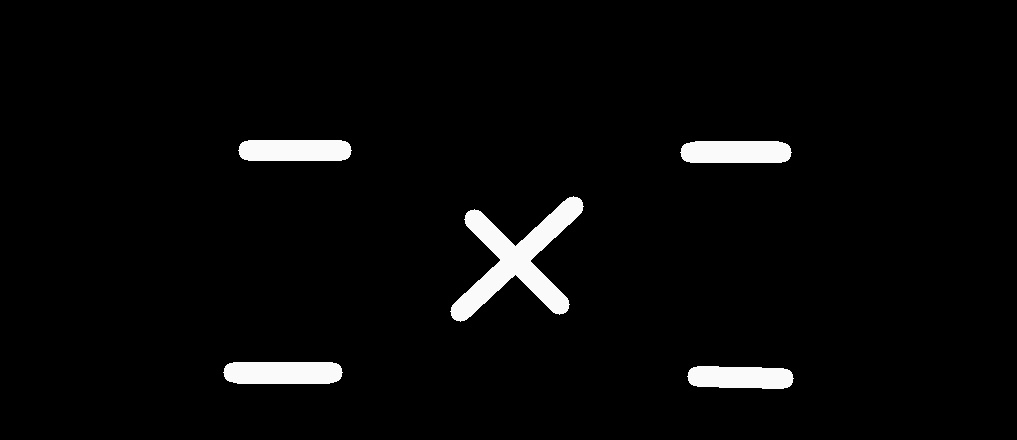
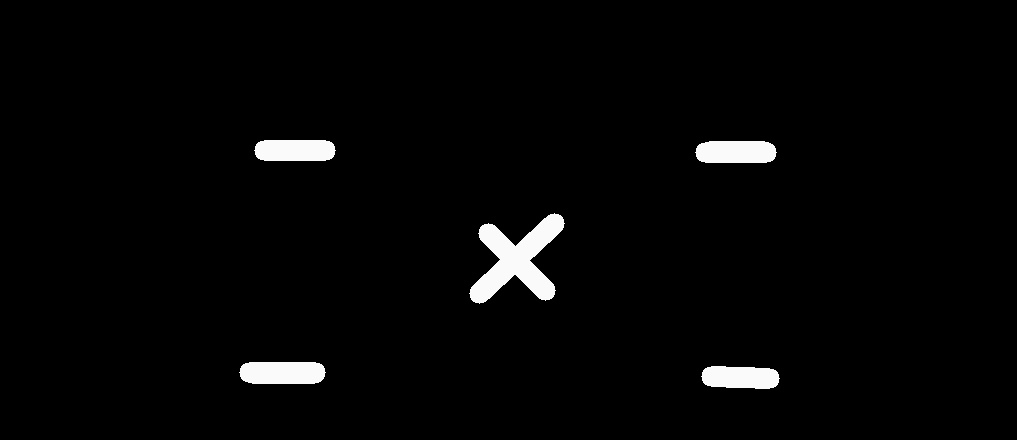
Yellow Back Color

diff --git a/Image Processing/HSV_Test/color.py b/Image Processing/HSV_Test/color.py
@@ -28,17 +28,17 @@ cv2.createTrackbar("U - V", "Trackbars", 255, 255, nothing)
 while True:
     
     # Start reading the webcam feed frame by frame.
-    ret, frame = cap.read()
+    # ret, frame = cap.read()
 
-    if not ret:
-        break
-    # color='car'
-    # image = cv2.imread('./'+color+'.jpeg' , 1)
-    # frame=image
+    # if not ret:
+    #     break
+    color='yellow'
+    image = cv2.imread('./'+color+'.jpeg' , 1)
+    frame=image
 
 
     # Flip the frame horizontally (Not required)
-    frame = cv2.flip( frame, 1 ) 
+    # frame = cv2.flip( frame, 1 ) 
     
     # Convert the BGR image to HSV image.
     hsv = cv2.cvtColor(frame, cv2.COLOR_BGR2HSV)
@@ -90,5 +90,5 @@ while True:
         break
     
 # Release the camera & destroy the windows.    
-cap.release()
+# cap.release()
 cv2.destroyAllWindows()

diff --git a/Image Processing/ImageProcessingC++/main.cpp b/Image Processing/ImageProcessingC++/main.cpp
@@ -14,11 +14,11 @@ int minor_testcase;
 int main(int argc, char** argv) {
 	cout << "Hello World from C++ :D" << endl;
 
-	testcase = 2;
-	minor_testcase = 13;
+	//testcase = 3;
+	//minor_testcase = 450;
 
-	//testcase = atoi(argv[1]);
-	//minor_testcase = atoi(argv[2]);
+	testcase = atoi(argv[1]);
+	minor_testcase = atoi(argv[2]);
 
 	
 	//cout << testcase << endl;
@@ -142,7 +142,7 @@ int main(int argc, char** argv) {
 		//waitKey(0);
 
 		start = high_resolution_clock::now();
-		car_on_line(on_line, x_f, y_f, x_b, y_b, image_lines, car_image_debug, 50 , 1.5 , 1.0);
+		car_on_line(on_line, x_f, y_f, x_b, y_b, image_lines, car_image_debug, 100 , 1.5 , 1.0);
 		stop = high_resolution_clock::now();
 		duration = duration_cast<microseconds>(stop - start);
 		cout << "car_on_line(): " << duration.count() <<"MicroSec"<<endl;

diff --git a/Image Processing/ImageProcessingC++/ScanTrack.cpp b/Image Processing/ImageProcessingC++/ScanTrack.cpp
@@ -148,8 +148,8 @@ void extract_lines(Mat & image_lines, Mat& image, Size s ,int sliding, double rh
 		double change_x = x2 - x1, change_y = y2 - y1;
 		double length = sqrt(pow(change_x, 2) + pow(change_y, 2));//length
 		change_x /= length; change_y /= length;
-		change_x *= 0.20*length;///////////Basma
-		change_y *= 0.20* length;///////////Basma
+		change_x *= 0.30*length;///////////Basma
+		change_y *= 0.30* length;///////////Basma
 		x1 += change_x;
 		y1 += change_y;
 

diff --git a/Image Processing/ImageProcessingC++/utils.cpp b/Image Processing/ImageProcessingC++/utils.cpp
@@ -296,7 +296,8 @@ bool color_mask(Mat&mask,Mat&masked_image, Mat image_hsv, Scalar color) {
 
 	}
 	else if (color==Scalar(0,0,255)) {
-		cv::inRange(image_hsv, Scalar(100, 147, 0), Scalar(144, 255, 255), mask);
+		//cv::inRange(image_hsv, Scalar(100, 147, 0), Scalar(144, 255, 255), mask);
+		cv::inRange(image_hsv, Scalar(20, 100, 100), Scalar(30, 255, 255), mask);
 	}
 
 
